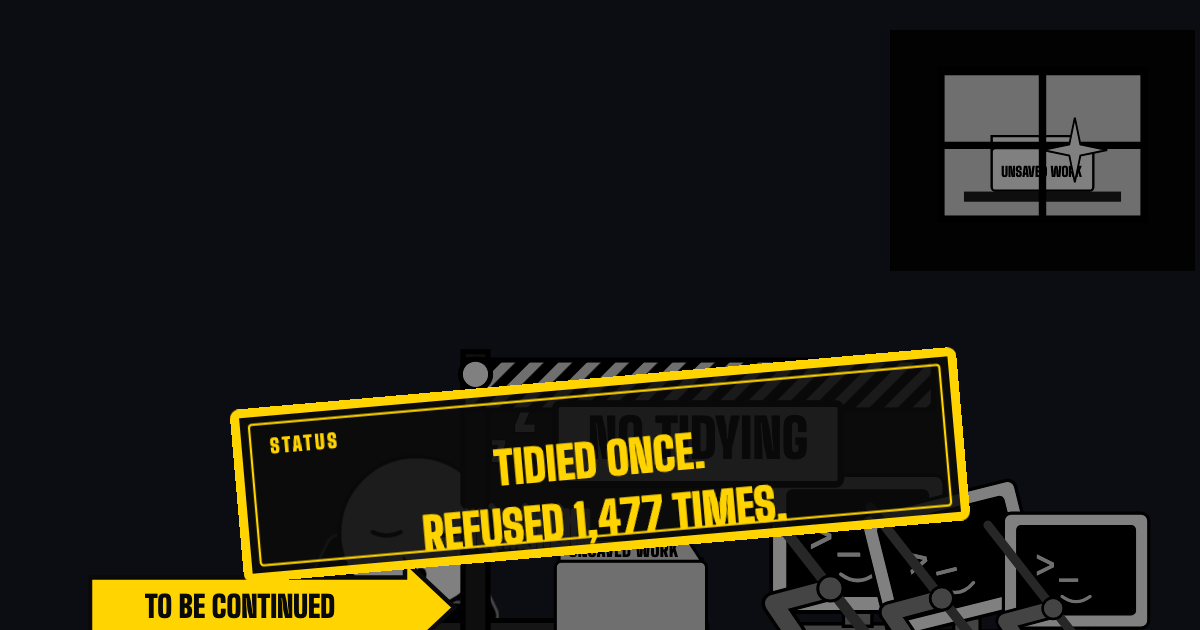
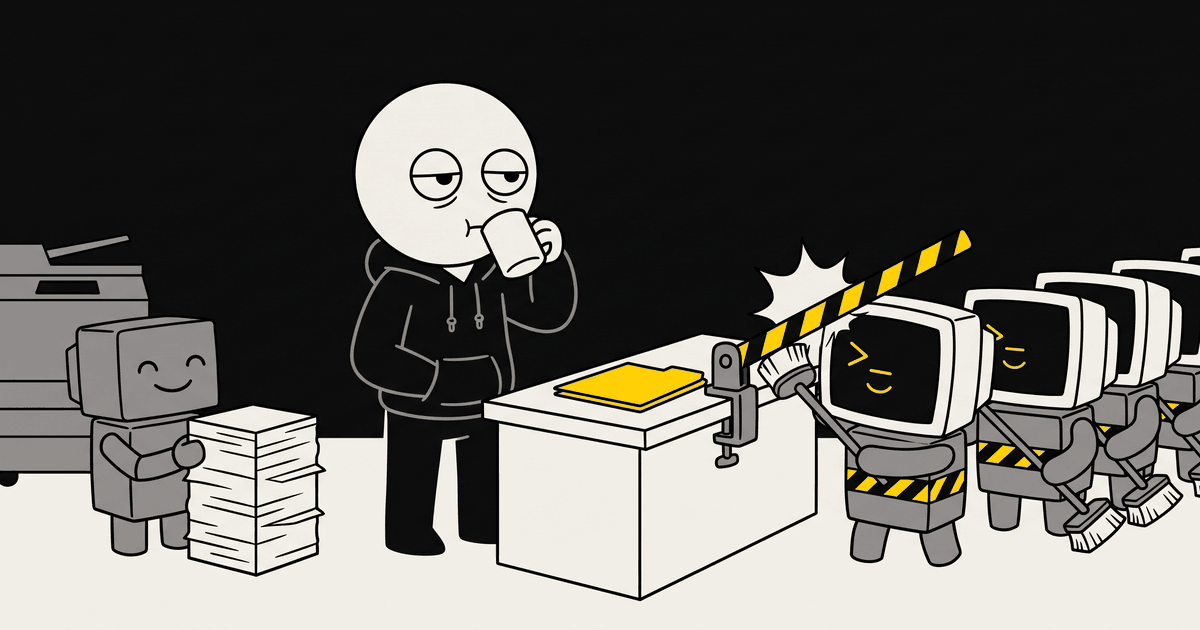
Place Video's story image: the detail section, and the incident's share image
The story image sits in the story-detail section (with its 2x copy for dense
screens, and Video's alt text) and is the incident's share.png, so the homepage
and the incident page share it as og:image. render-cut.mjs leaves share.png
alone when a cut has a story image.

diff --git a/src/lib/cuts.ts b/src/lib/cuts.ts
@@ -12,16 +12,18 @@ export function shotList(id: string): ShotList | null {
     return hit ? hit[1].default : null;
 }
 
-export interface CutAssets { stills: { file: string; shot: string }[]; video: string | null; poster: string | null; posterTall: string | null }
+export interface CutAssets { stills: { file: string; shot: string }[]; video: string | null; poster: string | null; posterTall: string | null; /** Video's story image (also the share image), 1200 by 630, with a 2x copy */ story: string | null; story2x: string | null }
 
 export function cutAssets(id: string): CutAssets {
     const dir = path.join(process.cwd(), 'public/cuts', id);
-    if (!existsSync(dir)) return { stills: [], video: null, poster: null, posterTall: null };
+    if (!existsSync(dir)) return { stills: [], video: null, poster: null, posterTall: null, story: null, story2x: null };
     const files = readdirSync(dir).sort();
     return {
         stills: files.filter((f) => /^still-\d+-.+\.webp$/.test(f)).map((f) => ({ file: f, shot: f.replace(/^still-\d+-|\.webp$/g, '') })),
         video: files.includes('cut.mp4') ? 'cut.mp4' : null,
         poster: files.includes('poster.webp') ? 'poster.webp' : null,
         posterTall: files.includes('poster-tall.webp') ? 'poster-tall.webp' : null,
+        story: files.includes('story.webp') ? 'story.webp' : null,
+        story2x: files.includes('story@2x.webp') ? 'story@2x.webp' : null,
     };
 }
